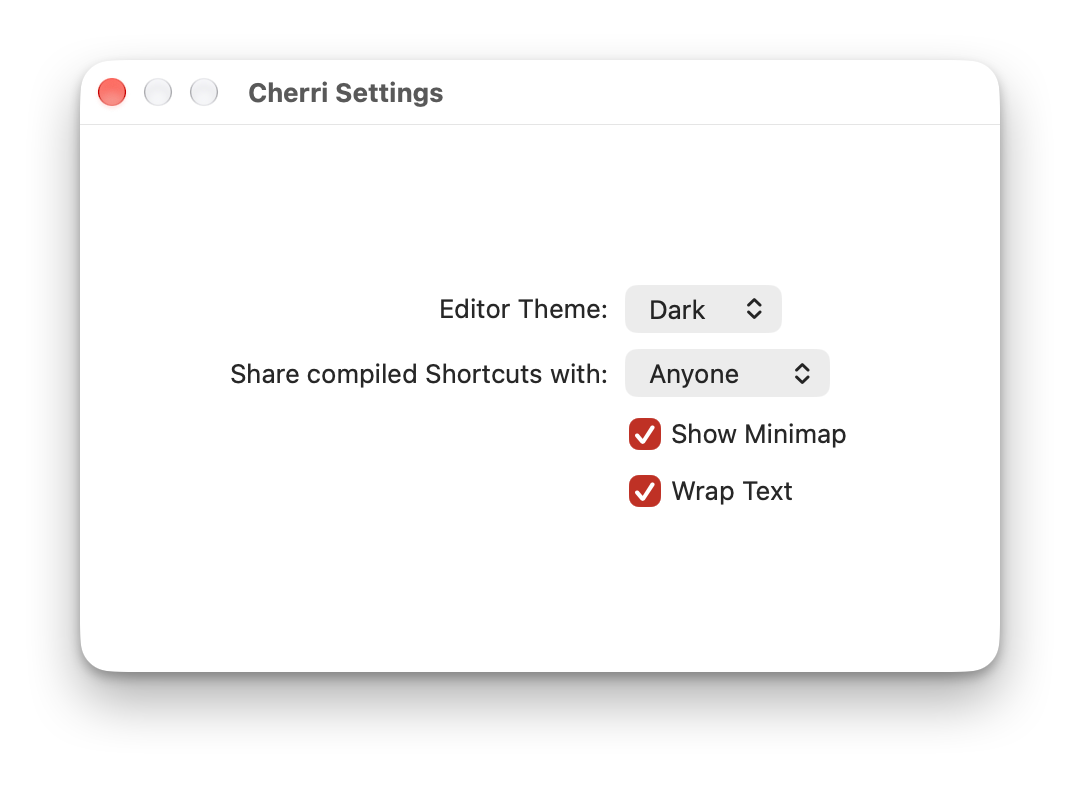
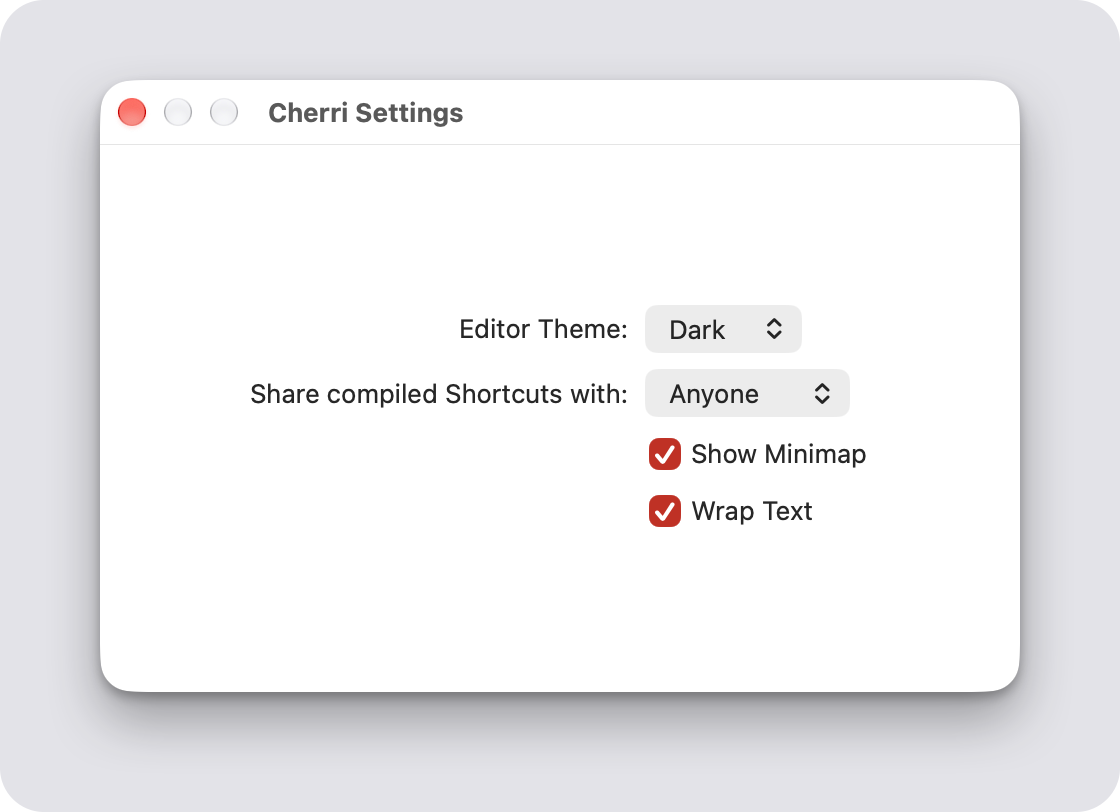
Add backdrop behind README screenshots so shadows show on dark themes

diff --git a/README.md b/README.md
@@ -4,7 +4,7 @@
 
 IDE for the [Cherri programming language](https://github.com/electrikmilk/cherri).
 
-<img width="1080" alt="Cherri editor with a compiled Shortcut" src="docs/images/editor.png" />
+<img width="1100" alt="Cherri editor with a compiled Shortcut" src="docs/images/editor.png" />
 
 ## Features
 
@@ -24,7 +24,7 @@ To get the link, go to Shortcuts -> Share Your Shortcut -> Copy iCloud Link.
 
 This feature is in beta.
 
-<img width="560" alt="Import Shortcut window" src="docs/images/importer.png" />
+<img width="580" alt="Import Shortcut window" src="docs/images/importer.png" />
 
 ### Inline Errors & Warnings
 
@@ -51,7 +51,7 @@ If you have previews on, it shows the contents of the file.
 
 ### Settings
 
-<img width="540" alt="Cherri Settings window" src="docs/images/settings.png" />
+<img width="560" alt="Cherri Settings window" src="docs/images/settings.png" />
 
 ## Dependencies
 
